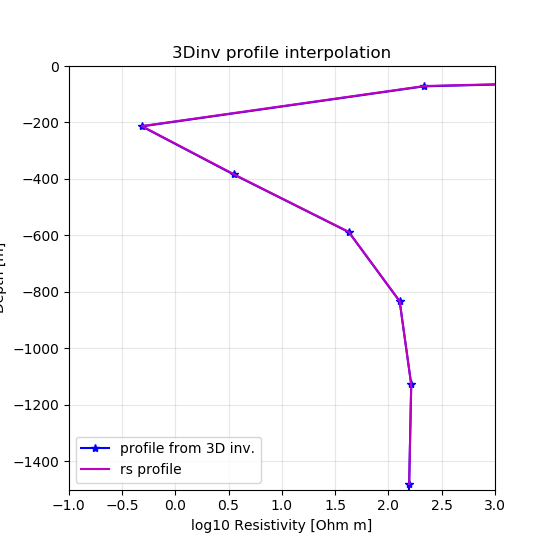
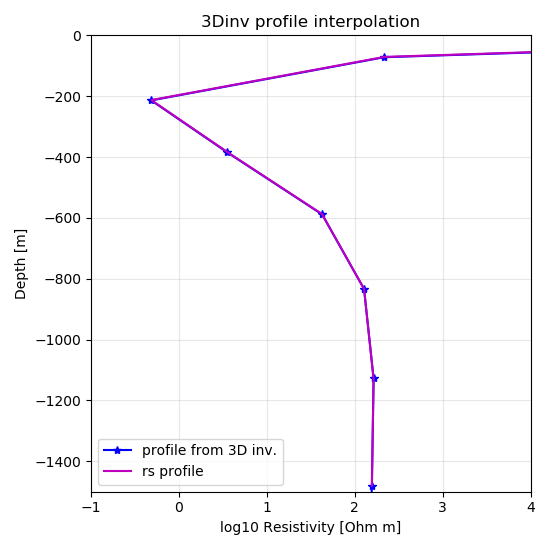
plot_uncert_comp method complete

diff --git a/lib_modEM.py b/lib_modEM.py
@@ -4,6 +4,8 @@
 # Author: Alberto Ardid
 # Institution: University of Auckland
 # Date: 2019
+.. conventions::
+CC	: Clay Cap 
 """
 
 # ==============================================================================
@@ -669,19 +671,23 @@ class modEM(object):
 
     def intp_1D_prof(self, x_intp, y_intp):
         """
-        Inteporlate 1D profile at surface position lat,lon. 
+        Inteporlate 1D profile at surface position lat,lon
+        (from grid defined by self.x,y,z) 
         Depths of interpolation are grid ones (self.z) 
+
+        Inputs: 
+            x_intp: surface position in x axis on grid.
+            x_intp: surface position in y axis on grid.
 
         Return: 
             Vector containing interpolate values at depths given in self.z
-
         """ 
 
-        ## construct vectors to be used in griddata
-        # construct 'points' and 'values' vectors
+        ## construct vectors to be used in griddata: points, values and xi
+        # (i) construct 'points' and 'values' vectors
         points = np.zeros([self.nx*self.ny*self.nz, 3])
         values = np.zeros([self.nx*self.ny*self.nz])
-        #
+        # loop over self.nx, ny, nz to fill points and values
         n = 0
         for i in range(self.nx):
             for j in range(self.ny):
@@ -695,17 +701,24 @@ class modEM(object):
         #for i in range(n):
         #    t.write('{}\t{}\t{}\n'.format(points[i][0],points[i][1],points[i][2]))
         #t.close()
-        ##  construct 'xi' vector
+        
+        # (ii) construct 'xi' vector
         xi = np.zeros([self.nz, 3])
         for k in range(self.nz): 
             xi[k,:] = [x_intp,y_intp,self.z[k]]
 
+        ## (iii) griddata: create interpolate profile 
         grid_z = griddata(points, values, xi, method='linear')
 
         return grid_z
     
     def plot_comp_mcmc(self, z_intp, z0, z1_mcmc, z2_mcmc, r2_mcmc):
+        """
+        Plot profile from 'intp_1D_prof' method with mcmc CC boundaries. 
 
+        Return:
+            figure
+        """
         # create figure
         f = plt.figure(figsize=[5.5,5.5])
         ## plot profile 3d inv
@@ -725,11 +738,19 @@ class modEM(object):
         ax.set_ylabel('Depth [m]')
         ax.set_title('3Dinv profile and MCMC CC boundaries')
         ax.grid(alpha = 0.3)
+        plt.tight_layout()
         #plt.show()
 
         return f
 
-    def plot_uncert_comp(self, res_intp, z0, z1_mcmc, z2_mcmc, r2_mcmc): 
+    def plot_uncert_comp(self, res_intp, z0, z1_mcmc, z2_mcmc, r2_mcmc):
+        """
+        a. Plot interpolated profile on new sample positions every 1 m 
+        b. Plot CC equivalent boundaries in 3Dinv profile compare to MCMC CC boundaries 
+
+        Return: 
+            Figures a. and b. 
+        """
 
         ## calculate positions of r2_mcmc in z_inerp (dephts in self.z)
         # (0) resample  res_intp and self.z in dz ~ 1m. 
@@ -748,12 +769,13 @@ class modEM(object):
         ax.plot(np.log10(res_intp), self.z -  z0,'b*-', label='profile from 3D inv.')
         ax.plot(log_r_rs, z_rs[:-1] -  z0,'m-', label='rs profile')
         plt.ylim([-1500,0])
-        plt.xlim([-1,3])
+        plt.xlim([-1,4])
         ax.legend(loc = 3)
         ax.set_xlabel('log10 Resistivity [Ohm m]')
         ax.set_ylabel('Depth [m]')
         ax.set_title('3Dinv profile interpolation')
         ax.grid(alpha = 0.3)
+        plt.tight_layout()
         #plt.show()
 
         # (1) divide profile in 2 sections to look for upper and lower boundary

diff --git a/main_validation_MTinv.py b/main_validation_MTinv.py
@@ -131,8 +131,11 @@ if __name__ == "__main__":
         ## depth vector for interpolation 
         #z_intp = np.linspace(0,2000,1000)
 
-        sta = 'WT111a' 
+        #sta = 'WT111a' 
         sta = 'WT502a'
+        #sta = 'WT024a'
+        #sta = 'WT070b'
+        #sta = 'WT107a'
 
         if sta == 'WT111a':
             x_intp = -3615.360
@@ -143,6 +146,21 @@ if __name__ == "__main__":
             x_intp = 1008.640
             y_intp = -578.359  
             z0 = -487.523 
+
+        if sta == 'WT024a':
+            x_intp = 2453.640
+            y_intp = -2312.359  
+            z0 = -487.523 
+
+        if sta == 'WT070b':
+            x_intp = -1303.360
+            y_intp = 1155.641
+            z0 = -487.523 
+
+        if sta == 'WT107a':
+            x_intp = -2459.360
+            y_intp = 2600.641
+            z0 = -380.028
 
         # WT502a => pos: 4
         # WT111a => pos: 11
@@ -172,7 +190,6 @@ if __name__ == "__main__":
         plt.close(f)    # close the figure
 
         ## plot boundaries uncertainty from 3D inversion 
-        # 
         f, g = modem.plot_uncert_comp(res_intp, z0, z1_mcmc, z2_mcmc, r2_mcmc)
         f.savefig('.'+os.sep+'modEM_inv'+os.sep+sta+os.sep+'prof_intp.png')   # save the figure to file
         plt.close(f)    # close the figure
